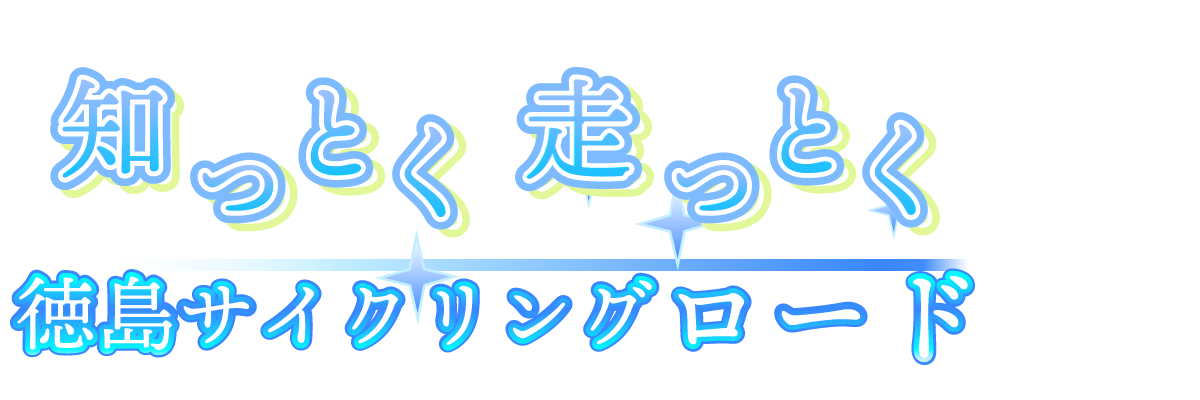
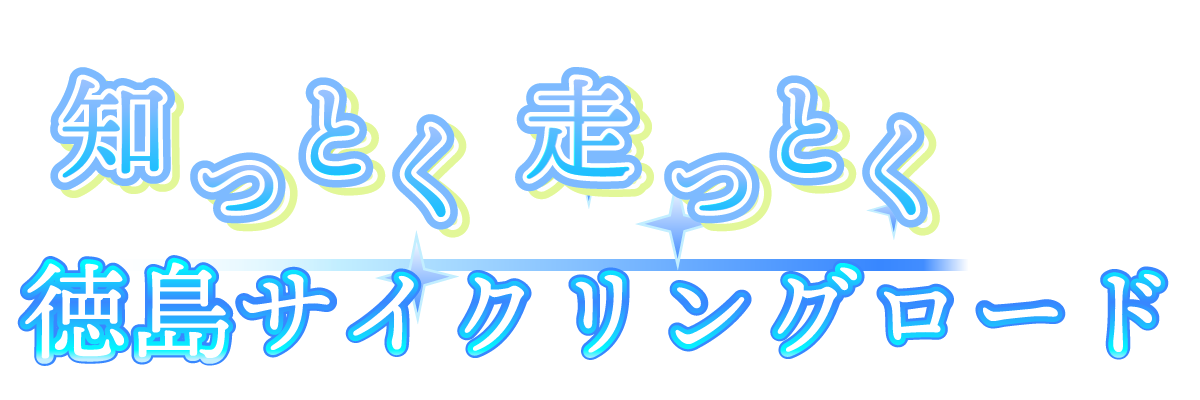
ヘッダーロゴを修正、 それに伴い、style.cssで位置を調整

Changed region(s): [[0.0, 0.63, 0.8942, 0.93], [0.8942, 0.66, 0.9867, 0.9]]

diff --git a/css/style.css b/css/style.css
@@ -233,7 +233,7 @@ p ,a ,li{font-size: 16px;}
 	content: "";
     display: block;
     top: calc(0% - 0px);
-    left: calc(100% - 0px);
+    left: calc(100% + 5px);
 	max-height: 60px;
 	height: 10vw;
 	max-width: 60px;
@@ -281,7 +281,7 @@ p ,a ,li{font-size: 16px;}
 		content: "";
 		display: block;
 		top: calc(0% - 0px);
-		left: calc(0% + 160px);
+		left: calc(0% + 166px);
 		max-width: 100%;
 		width: 80px;
 		max-height: 100%;
